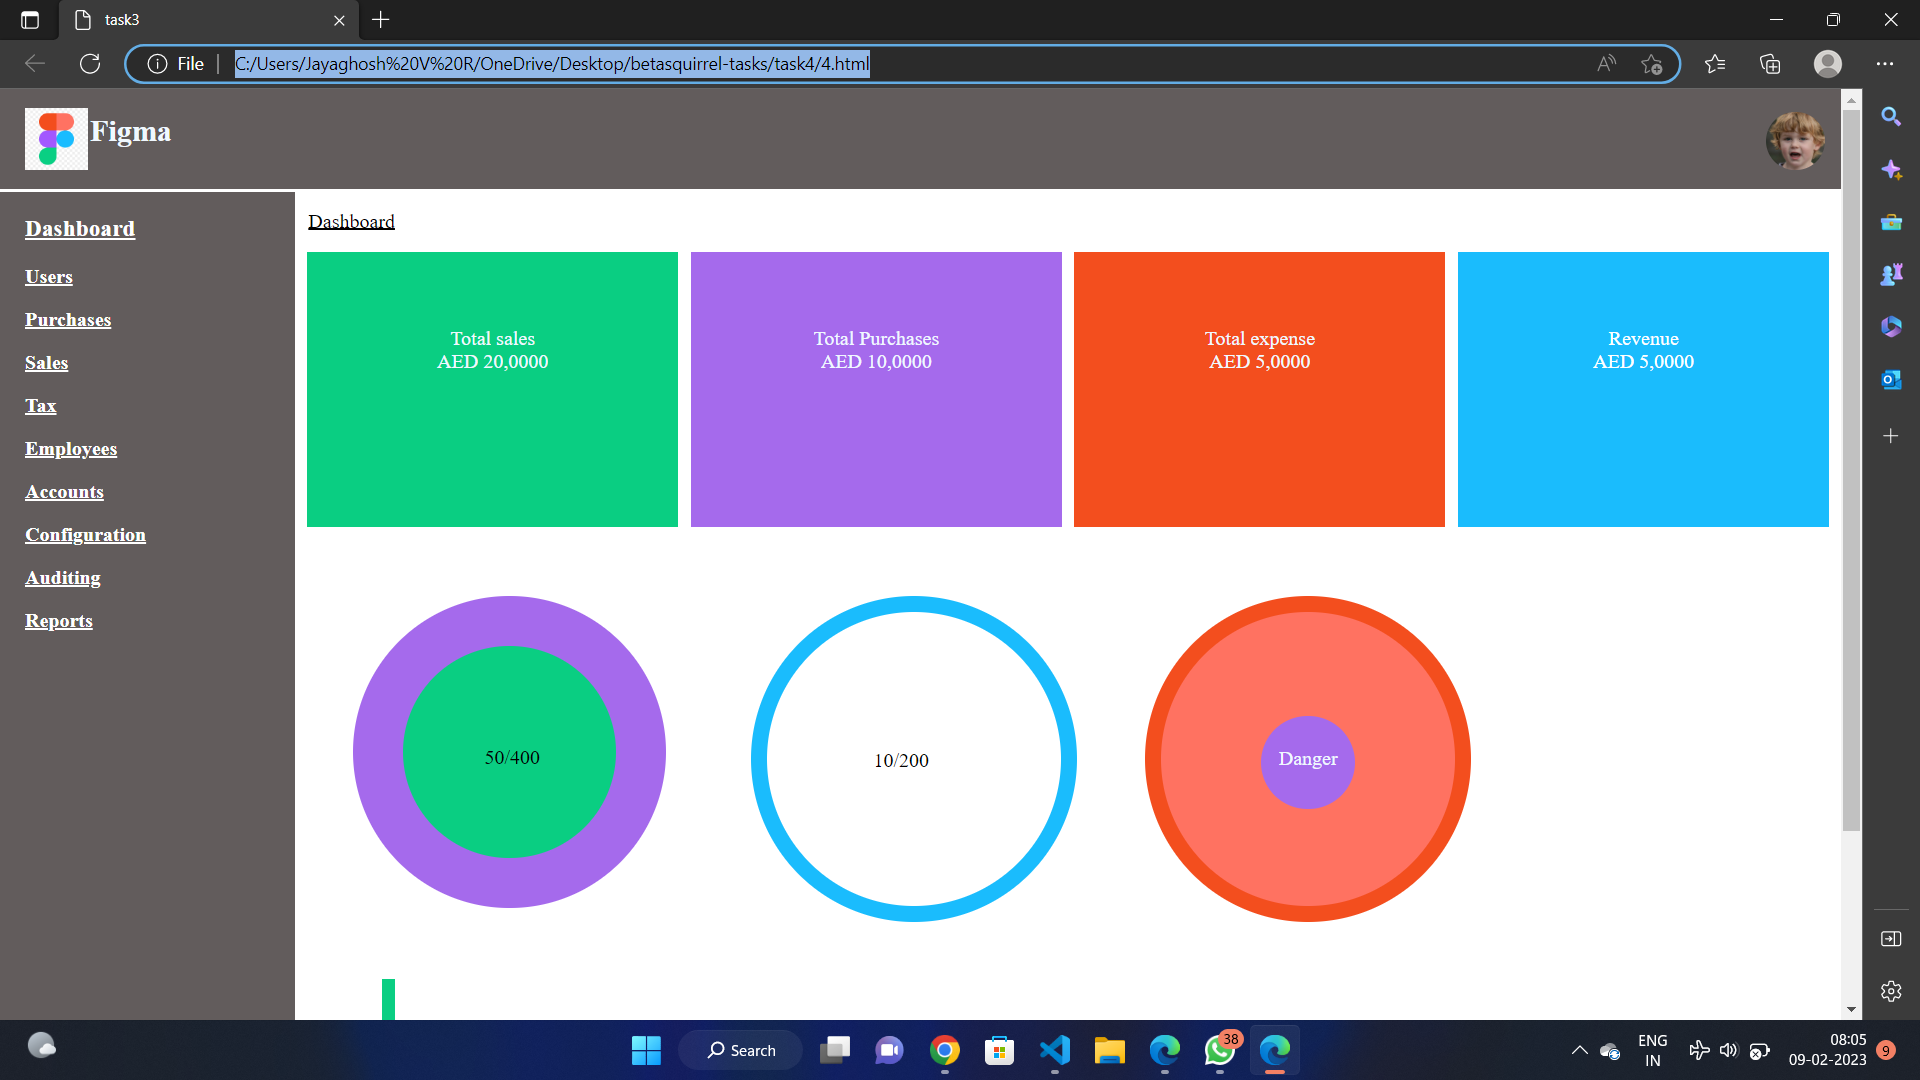
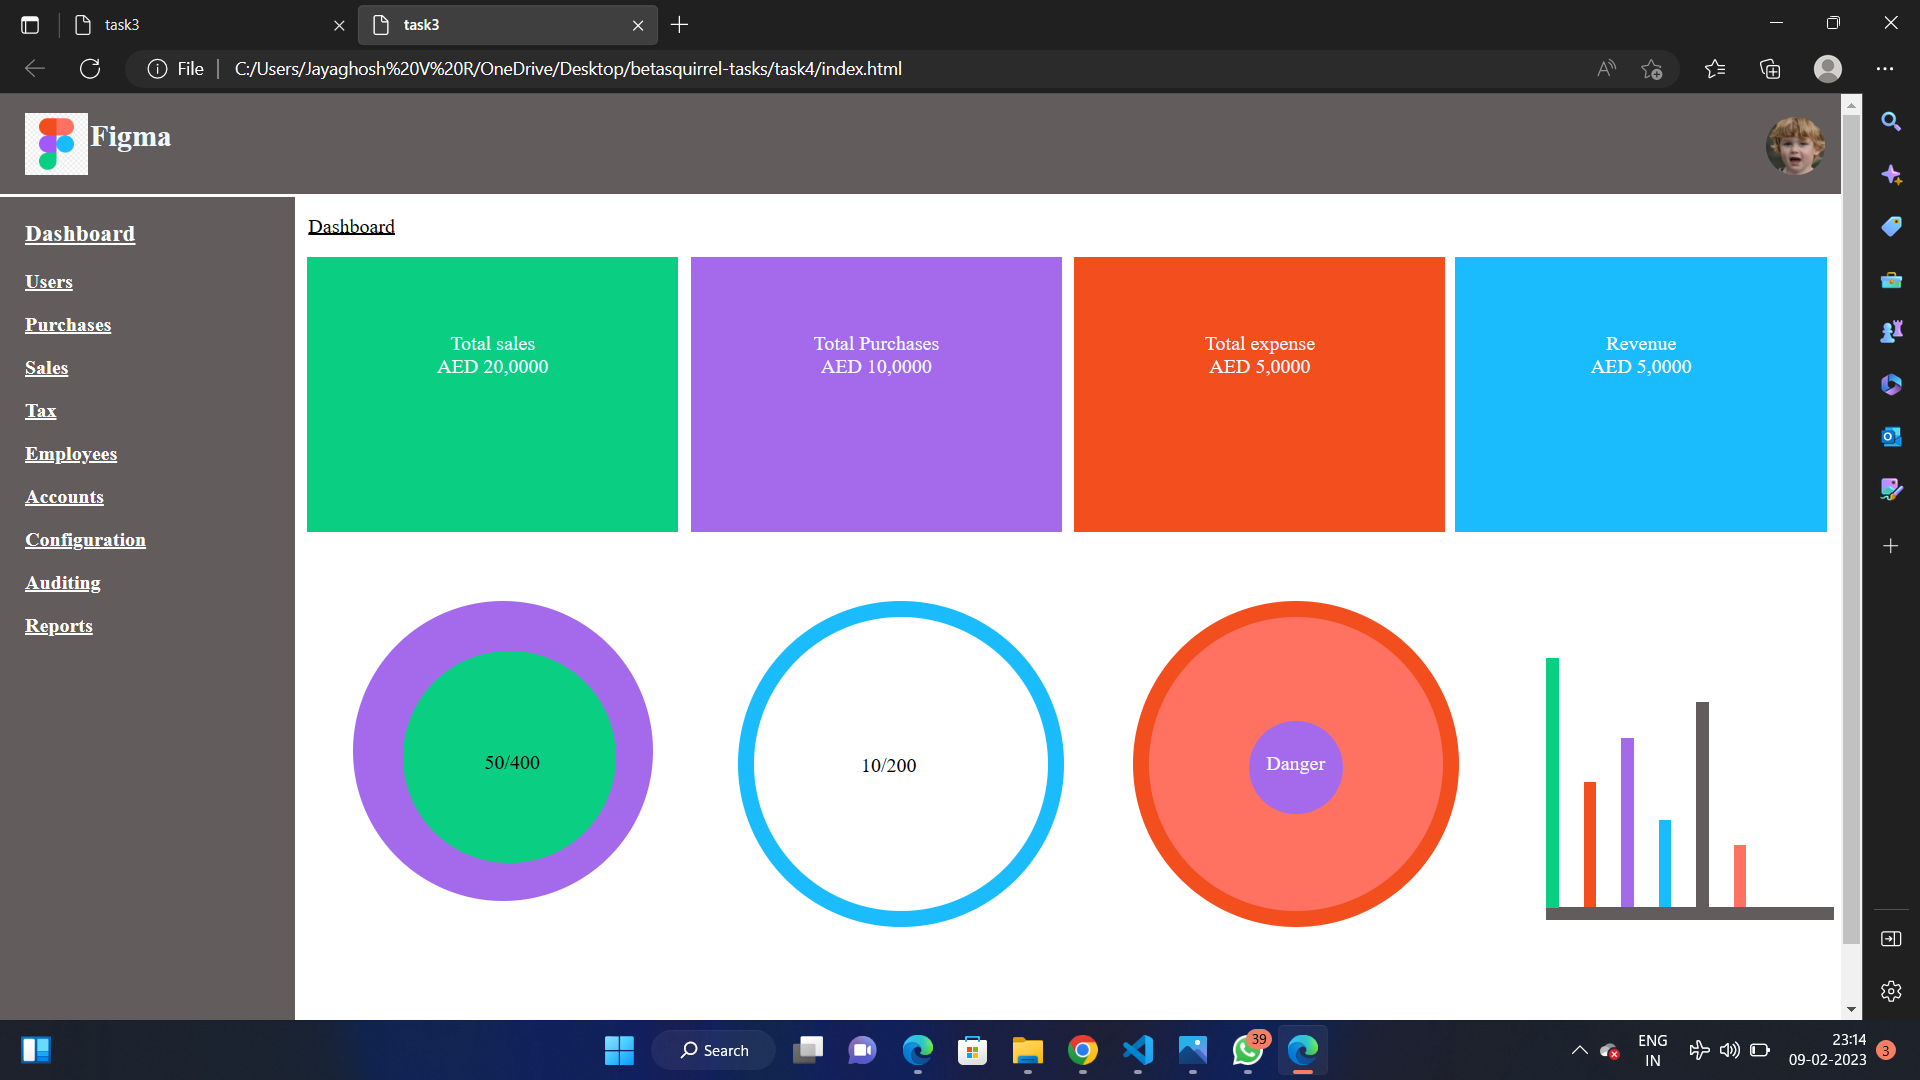
task completed

diff --git a/task4/index.html b/task4/index.html
@@ -16,7 +16,7 @@
                 <img src="images/image.jpg"alt="profilr">
             </div>
         </div>
-    <!-- nav bar comlpeted -->
+
         <div id="sidebar">
             <b>
                 <h3><a href="Dashboard">Dashboard</a></h3>
@@ -31,7 +31,7 @@
                 <p><a href="Reports">Reports</a></p>
             </b>
         </div>
-    <!-- side bar completed -->
+    
 
         <div id="mainbody">
             <p><a href="Dashboard">Dashboard</a></p>

diff --git a/task4/css/style.css b/task4/css/style.css
@@ -114,7 +114,7 @@
     background-color: rgb(26, 188, 253);
 
     float: left;
-    margin-left: 10px;
+    margin-left: 8px;
     margin-bottom: 55px
 }
 #mainbody .dashboard4 p{
@@ -144,8 +144,8 @@
 
 
 #mainbody .circle1 {
-    width: 250px;
-    height: 250px;
+    width: 240px;
+    height: 240px;
     background-color: rgb(165, 106, 236);
     float: left;
     margin-left: 47px;
